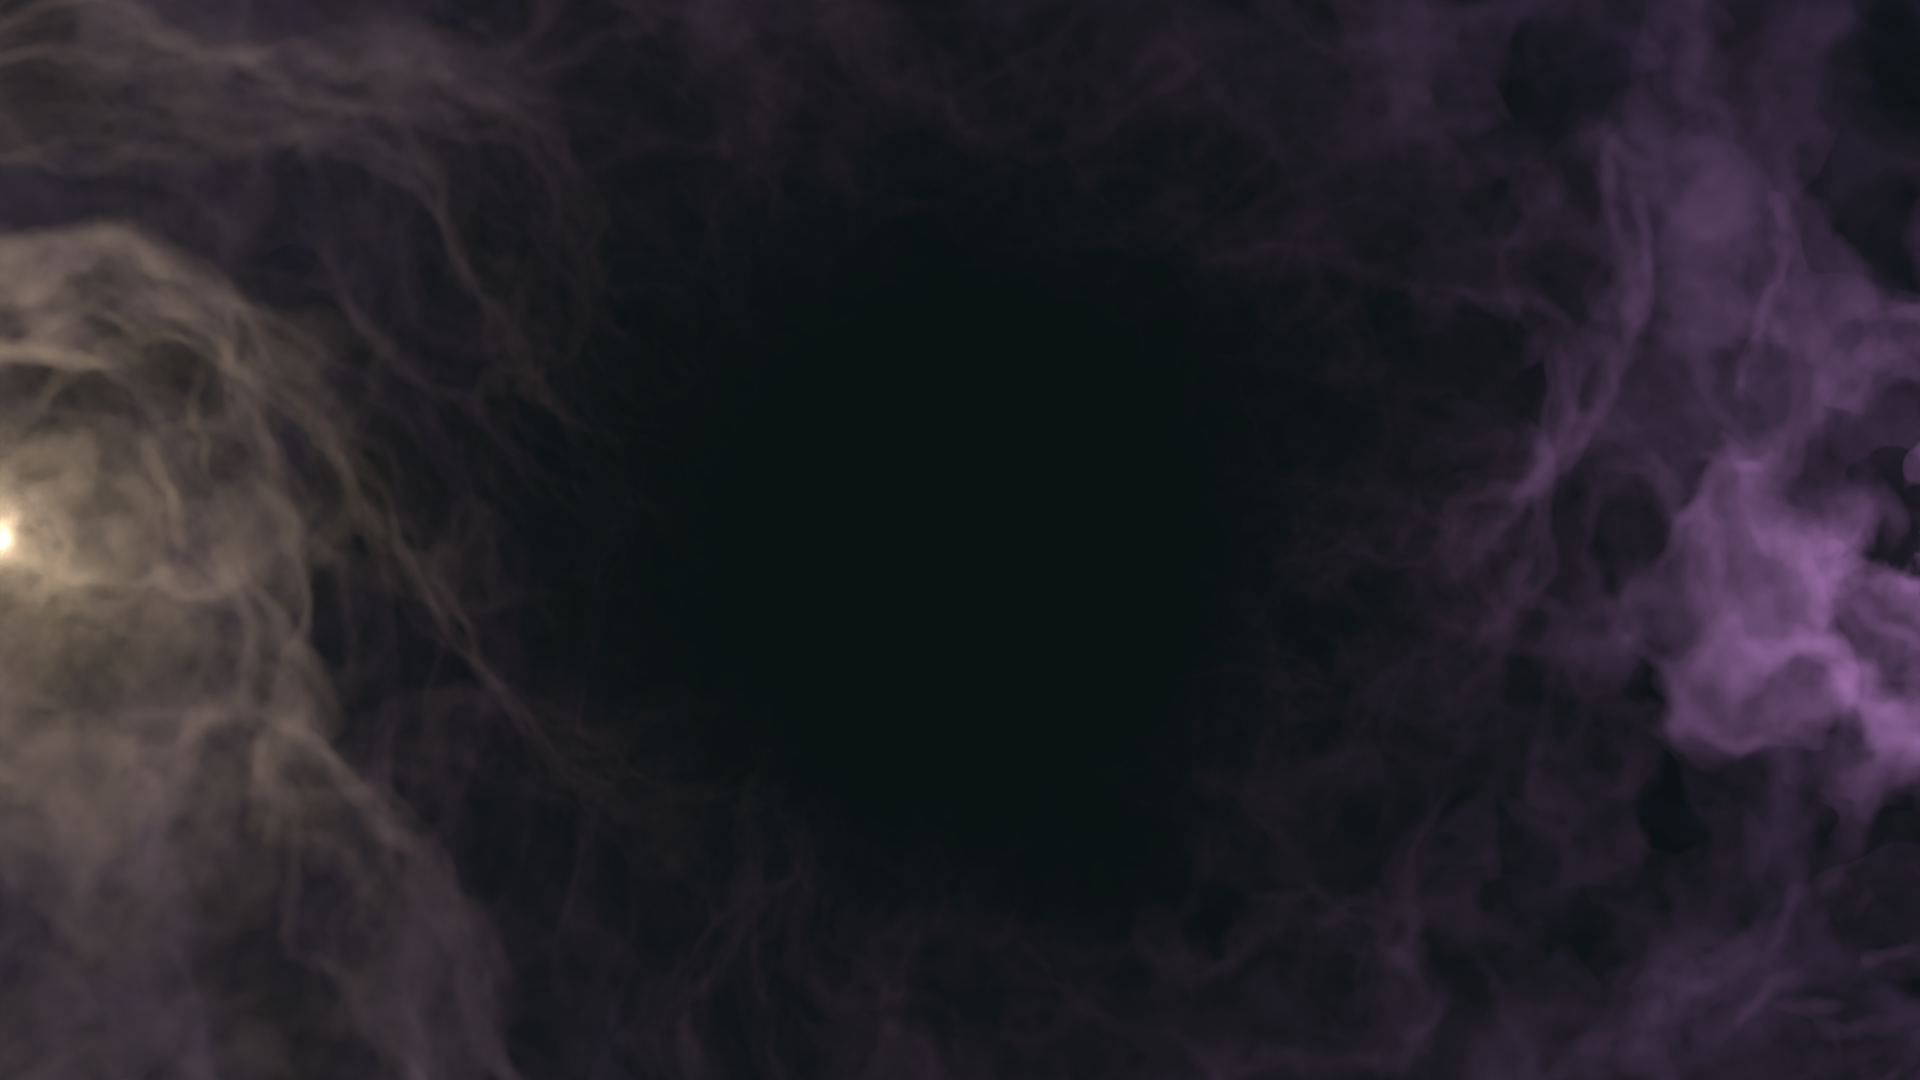
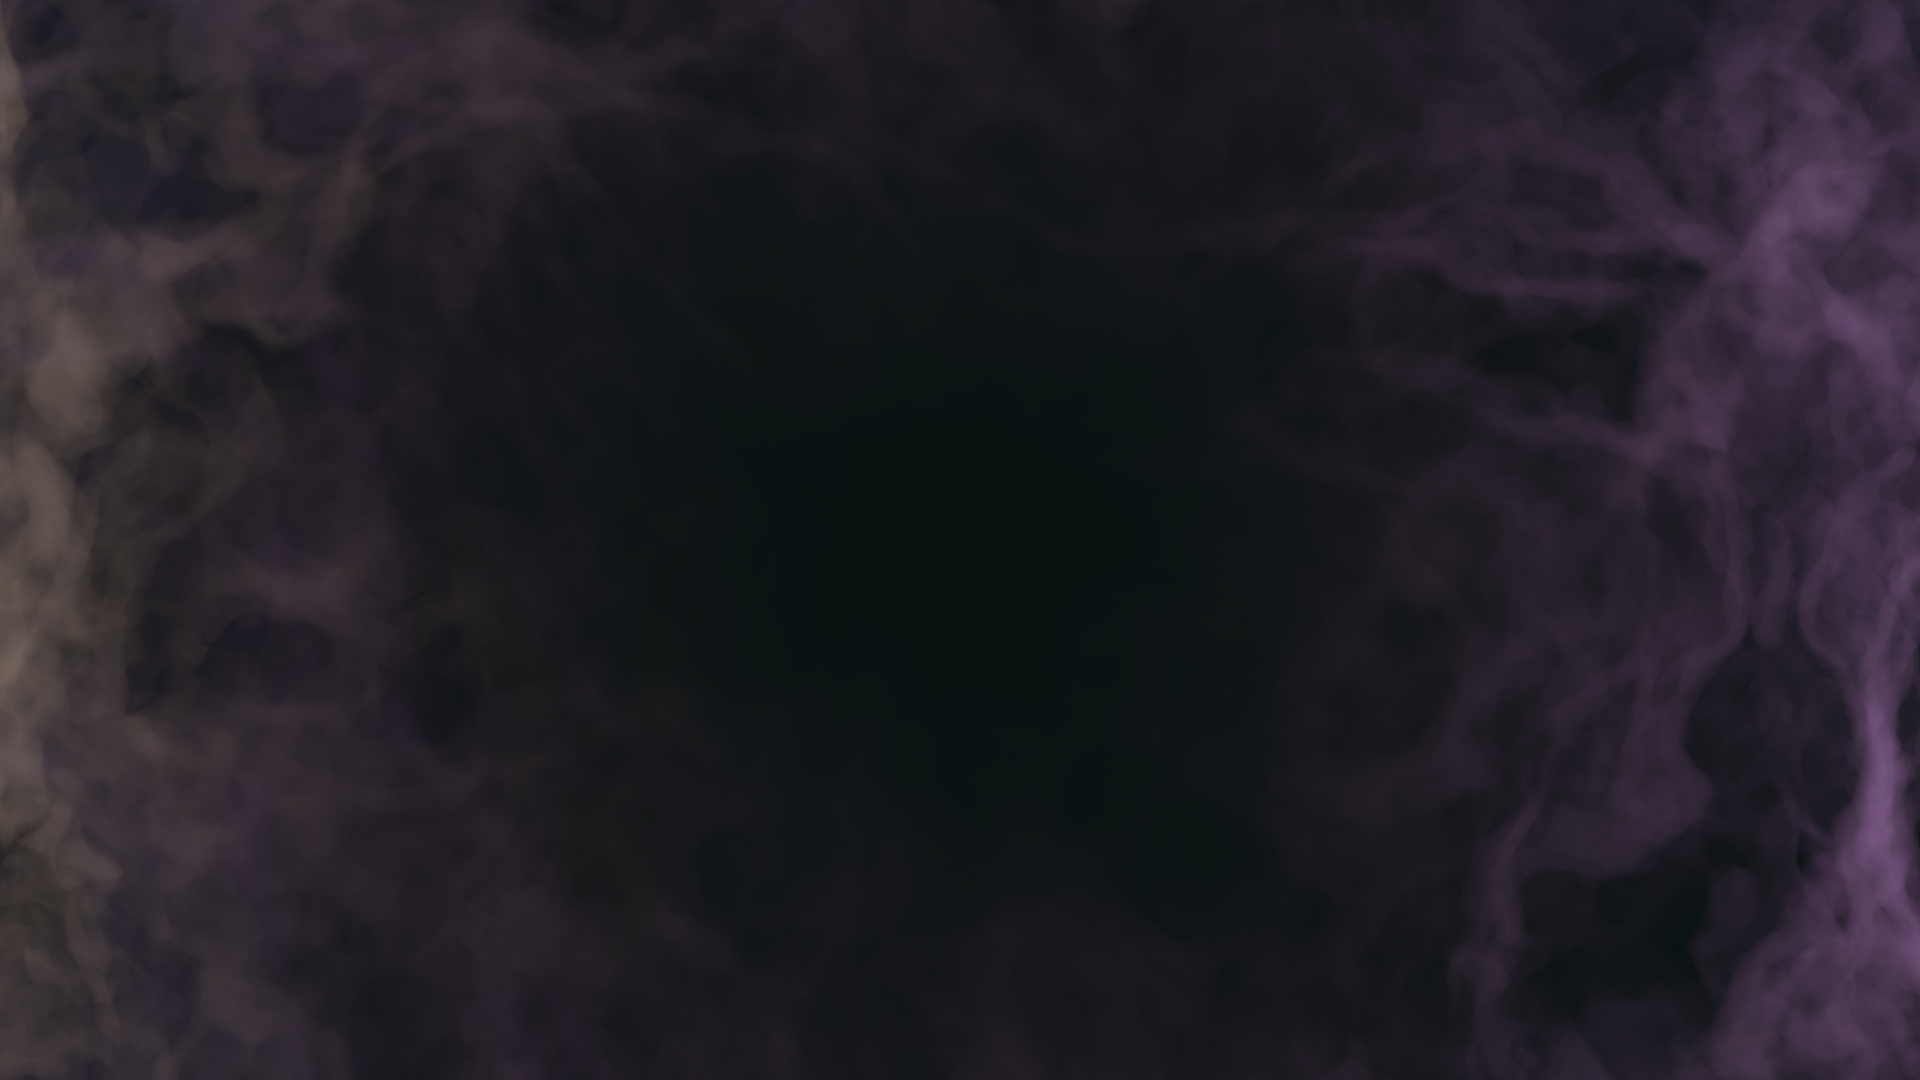
updated the lighting and materials on the home page background

diff --git a/components/backgrounds/HomePageBackground/HomePageBackground.tsx b/components/backgrounds/HomePageBackground/HomePageBackground.tsx
@@ -10,7 +10,8 @@ import {
   Sprite,
   PointLight,
   MeshToonMaterial,
-  AmbientLight,
+  Fog,
+  NoBlending,
 } from "three";
 // @ts-expect-error - CommonJs warning
 import { GLTF, GLTFLoader } from "three/addons/loaders/GLTFLoader.js";
@@ -49,7 +50,7 @@ const HomePageBackground: FC<HomePageBackgroundProps> = ({
     if (typeof window !== "undefined") {
       // Scene and Renderer
       const scene = new Scene();
-      scene;
+      scene.fog = new Fog(0xffffff);
 
       const camera = new PerspectiveCamera(
         75,
@@ -59,10 +60,7 @@ const HomePageBackground: FC<HomePageBackgroundProps> = ({
       );
 
       const renderer = new WebGLRenderer({
-        powerPreference: "high-performance",
-        antialias: false,
-        stencil: false,
-        depth: false,
+        antialias: true,
       });
 
       renderer.setSize(window.innerWidth, window.innerHeight);
@@ -134,13 +132,10 @@ const HomePageBackground: FC<HomePageBackgroundProps> = ({
                 for (let i = 0; i < mesh.material.length; i++) {
                   const newMaterial = new MeshToonMaterial(mesh.material[i]);
                   mesh.material[i] = newMaterial;
+                  mesh.material[i].fog = true;
 
-                  if (mesh.material[i].name !== "Material.001") {
-                    mesh.material[i].transparent = false;
-                  } else {
-                    mesh.material[i].emmissive = 0xffffff;
-                    mesh.material[i].emmissiveIntensity = 1;
-                  }
+                  mesh.material[i].blending = NoBlending;
+                  mesh.material[i].alphaTest = 0.1;
                 }
 
                 mesh.rotation.x = 0.15;
@@ -163,15 +158,11 @@ const HomePageBackground: FC<HomePageBackgroundProps> = ({
       });
 
       // Lighting
-      const sunLight = new PointLight(0xfffcbc, 1, 50, 0.01);
+      const sunLight = new PointLight(0xfffcbc, 10, 100, 0.01);
       sunLight.position.y = -10;
       sunLight.position.z = -30;
 
       scene.add(sunLight);
-
-      const ambientLight = new AmbientLight(0x131304);
-
-      scene.add(ambientLight);
 
       // Post Processing Effects
       // @ts-expect-error
@@ -213,6 +204,8 @@ const HomePageBackground: FC<HomePageBackgroundProps> = ({
       // Render
 
       const renderScene = () => {
+        requestAnimationFrame(renderScene);
+
         sunMaterial.rotation += 0.001;
         sun2Material.rotation += 0.001;
         sun.scale.x += 0.0075;
@@ -227,8 +220,6 @@ const HomePageBackground: FC<HomePageBackgroundProps> = ({
 
         renderer.render(scene, camera);
         composer.render();
-
-        requestAnimationFrame(renderScene);
       };
 
       renderScene();
